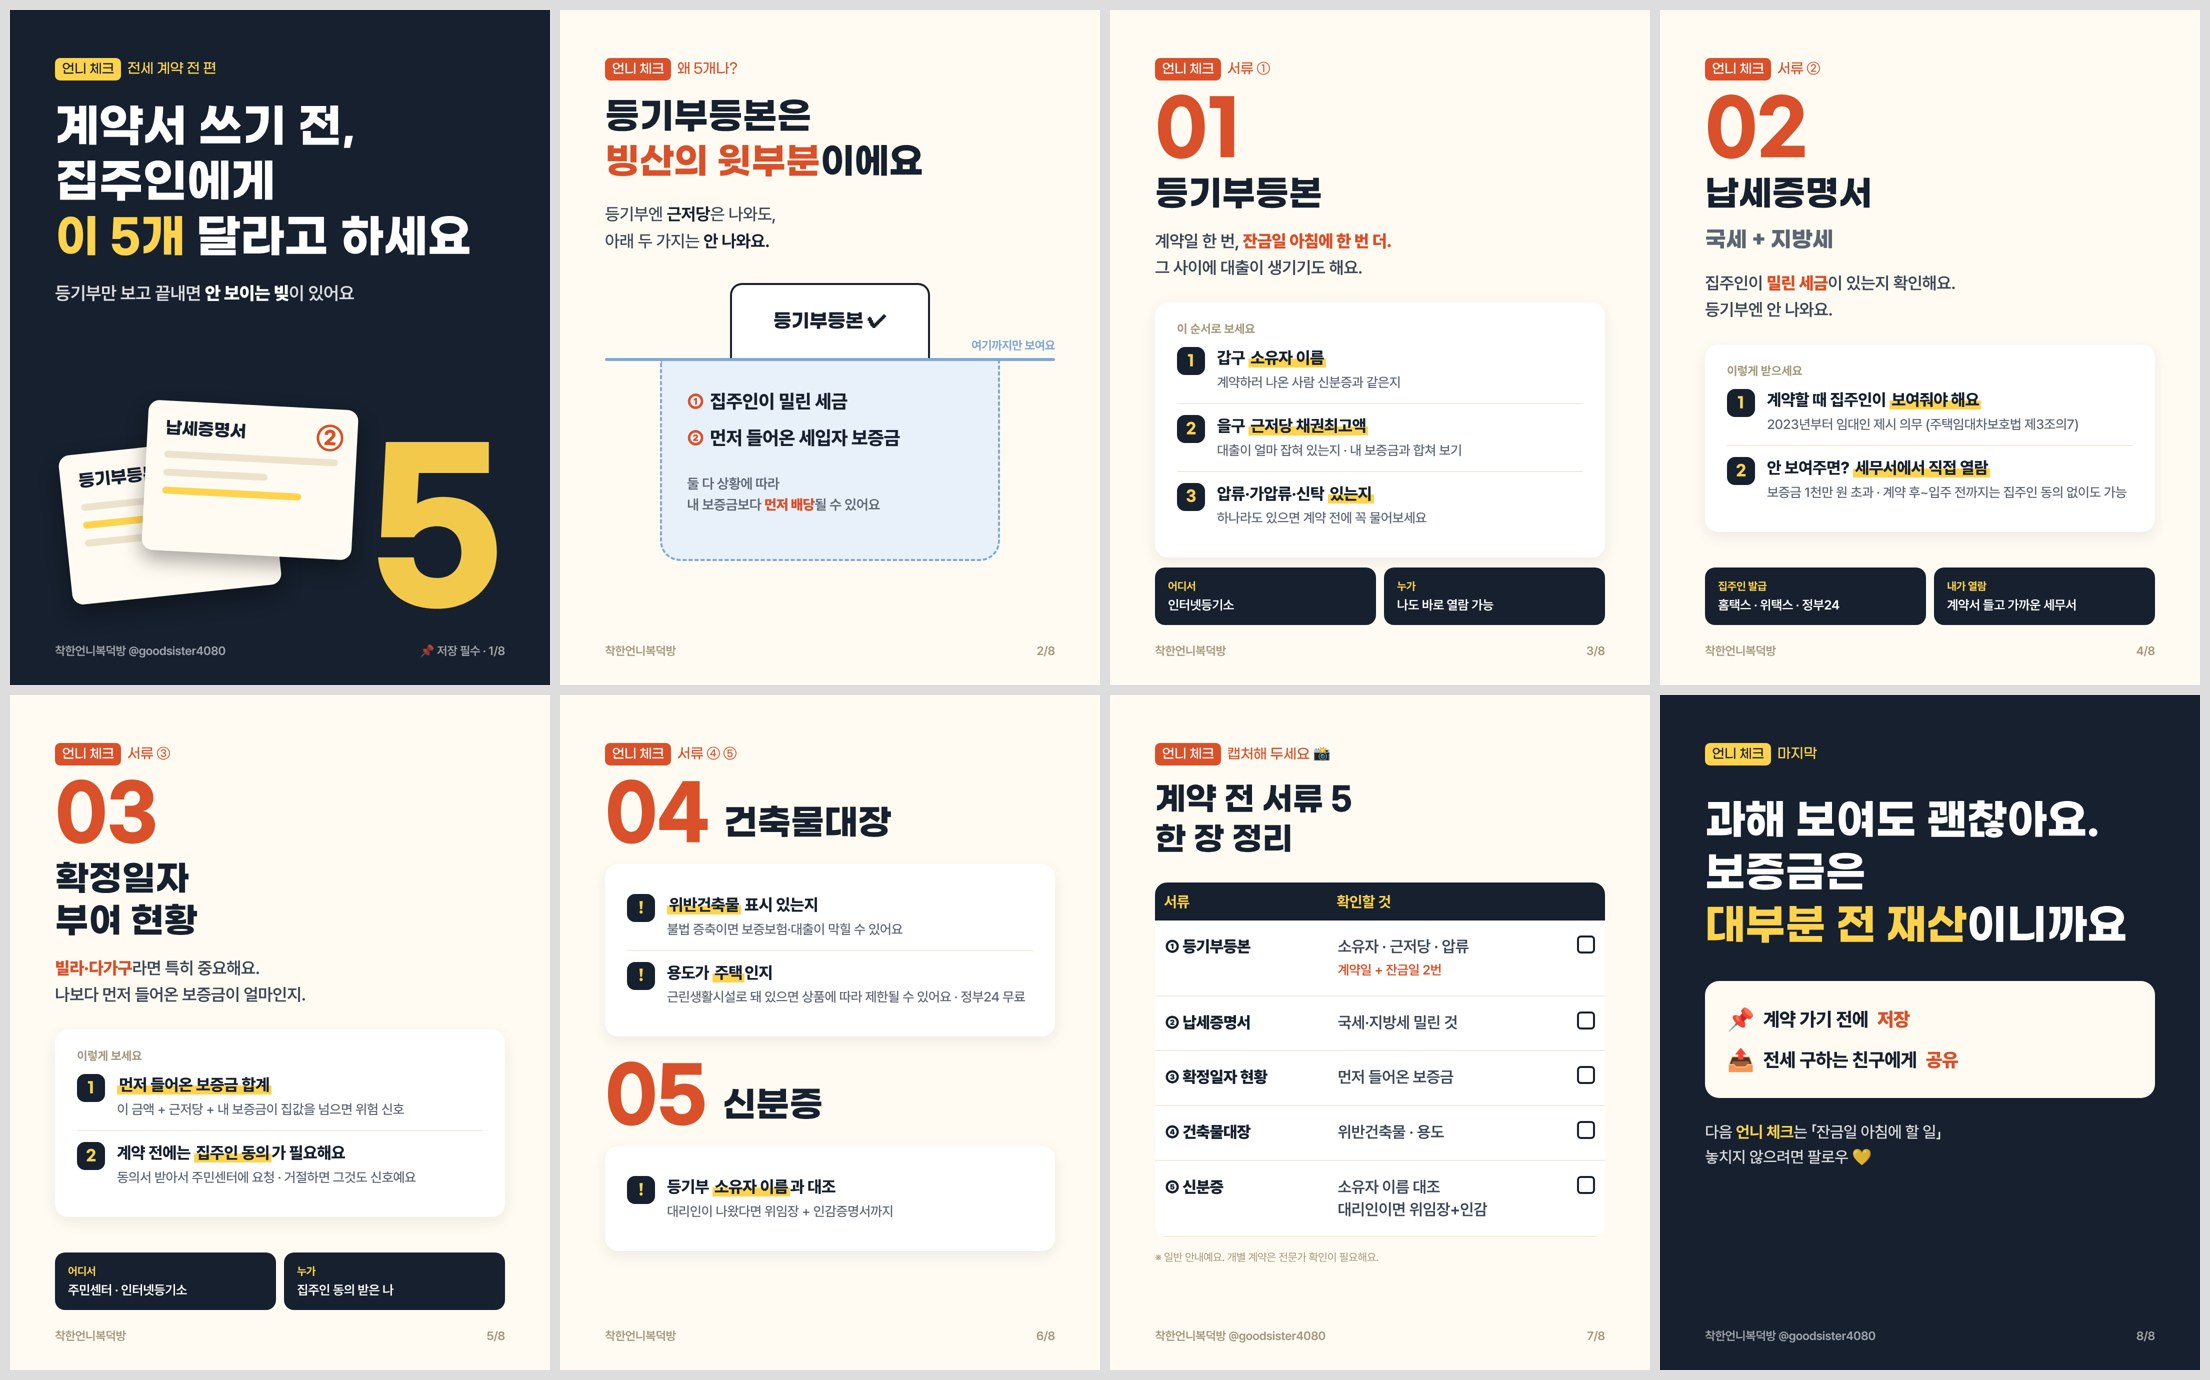
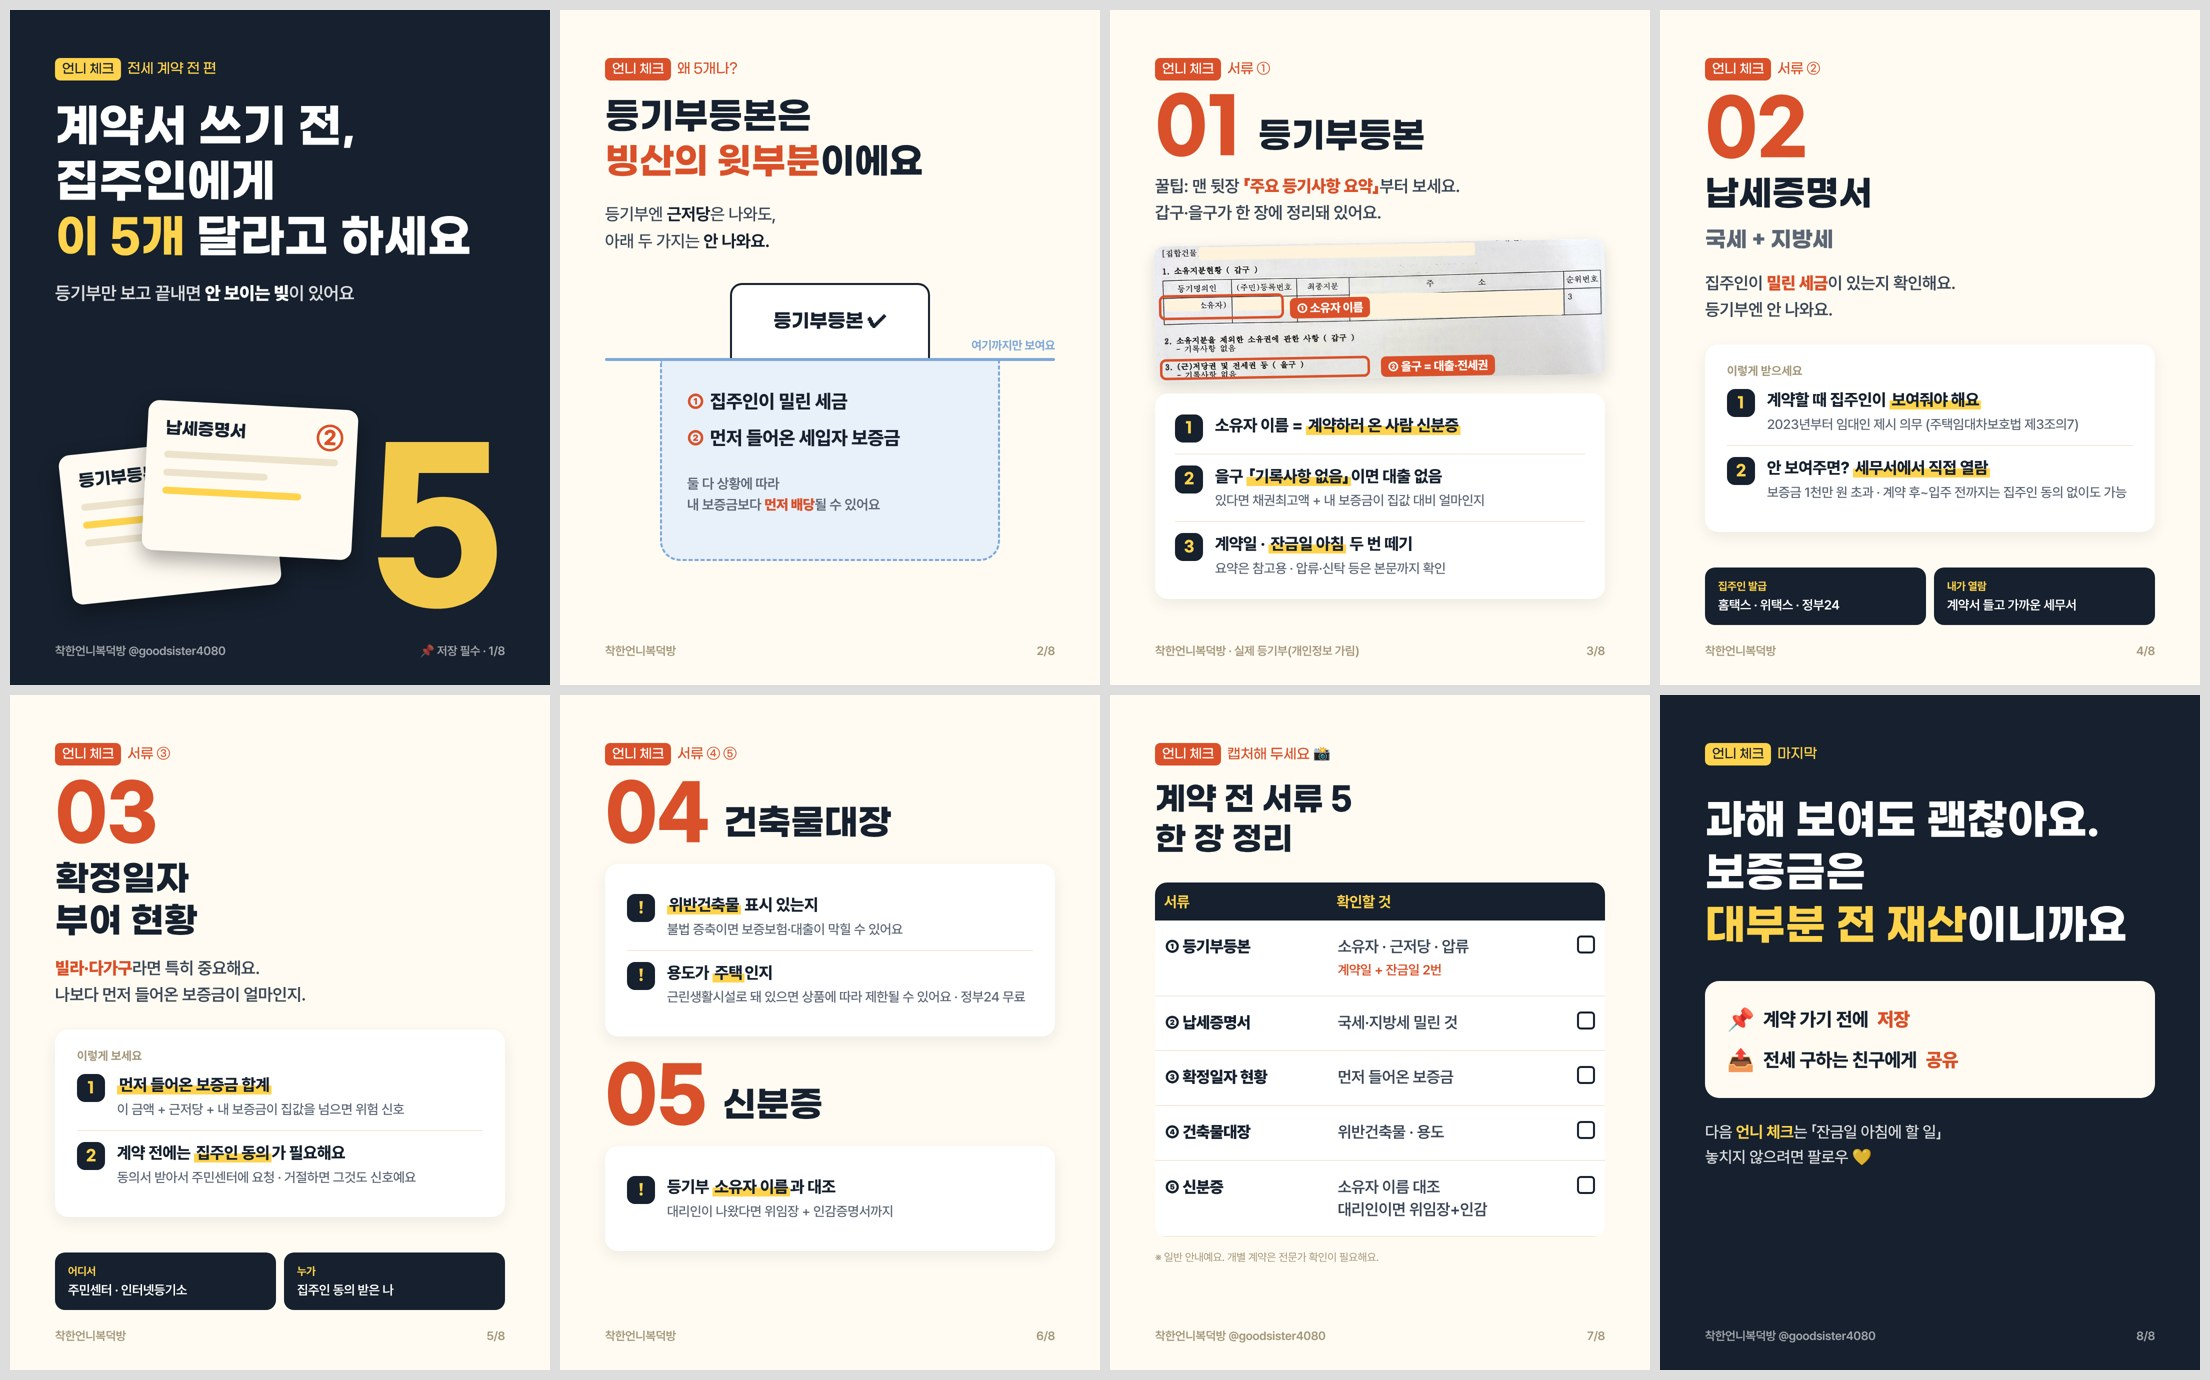
언니 체크 draft: real 등기부 summary (masked) on slide 3, caption
Claude-Session: https://claude.ai/code/session_01TVq9M4GpnT2XRseWGn9WC1

Changed region(s): [[0.4995, 0.0623, 0.7493, 0.4986]]

diff --git a/instagram/cards/2026-11-draft-unni-check/cards.html b/instagram/cards/2026-11-draft-unni-check/cards.html
@@ -57,6 +57,10 @@ mark{background:linear-gradient(transparent 55%,#FFD34D 55%);color:inherit;paddi
 .btn div{font-size:38px;font-weight:800;padding:14px 0;display:flex;gap:18px;align-items:center}
 .btn div span{font-size:44px}
 .fol{margin-top:44px;font-size:32px;line-height:1.55;color:rgba(255,255,255,.85);font-weight:500}.fol b{color:#FFD34D}
+.ph{position:relative;margin-top:34px;border-radius:20px;overflow:hidden;box-shadow:0 12px 30px rgba(22,32,46,.15);transform:rotate(-1deg);background:#fff}
+.ph img{display:block;width:900px}
+.ph .hl{position:absolute;border:5px solid #D9502A;border-radius:12px}
+.ph .tg{position:absolute;background:#D9502A;color:#fff;font-size:24px;font-weight:800;padding:6px 14px;border-radius:10px;white-space:nowrap}
 </style></head><body>
 
 <!-- 1 COVER -->
@@ -91,15 +95,16 @@ mark{background:linear-gradient(transparent 55%,#FFD34D 55%);color:inherit;paddi
 <!-- 3 등기부 -->
 <div class="s" id="s3">
  <div class="ser"><i>언니 체크</i> 서류 ①</div>
- <div class="num">01</div><div class="it">등기부등본</div>
- <div class="why">계약일 한 번, <b>잔금일 아침에 한 번 더.</b><br>그 사이에 대출이 생기기도 해요.</div>
- <div class="paper"><div class="t">이 순서로 보세요</div>
-  <div class="row"><div class="k">1</div><div class="v">갑구 <mark>소유자 이름</mark><small>계약하러 나온 사람 신분증과 같은지</small></div></div>
-  <div class="row"><div class="k">2</div><div class="v">을구 <mark>근저당 채권최고액</mark><small>대출이 얼마 잡혀 있는지 · 내 보증금과 합쳐 보기</small></div></div>
-  <div class="row"><div class="k">3</div><div class="v">압류·가압류·신탁 <mark>있는지</mark><small>하나라도 있으면 계약 전에 꼭 물어보세요</small></div></div>
+ <div style="display:flex;gap:30px;align-items:flex-end;margin-top:30px"><div class="num" style="margin:0">01</div><div class="it" style="margin:0 0 10px">등기부등본</div></div>
+ <div class="why" style="margin-top:20px">꿀팁: 맨 뒷장 <b>「주요 등기사항 요약」</b>부터 보세요.<br>갑구·을구가 한 장에 정리돼 있어요.</div>
+ <div class="ph"><img src="sum_masked.jpg"><span class="hl" style="left:8px;top:98px;width:250px;height:50px"></span><span class="tg" style="left:270px;top:108px">① 소유자 이름</span>
+ <span class="hl" style="left:8px;top:226px;width:420px;height:42px"></span><span class="tg" style="left:450px;top:228px">② 을구 = 대출·전세권</span></div>
+ <div class="paper" style="margin-top:30px;padding:20px 40px">
+  <div class="row"><div class="k">1</div><div class="v">소유자 이름 = <mark>계약하러 온 사람 신분증</mark></div></div>
+  <div class="row"><div class="k">2</div><div class="v">을구 <mark>「기록사항 없음」</mark>이면 대출 없음<small>있다면 채권최고액 + 내 보증금이 집값 대비 얼마인지</small></div></div>
+  <div class="row"><div class="k">3</div><div class="v">계약일 · <mark>잔금일 아침</mark> 두 번 떼기<small>요약은 참고용 · 압류·신탁 등은 본문까지 확인</small></div></div>
  </div>
- <div class="where"><div><b>어디서</b>인터넷등기소</div><div><b>누가</b>나도 바로 열람 가능</div></div>
- <div class="foot"><span>착한언니복덕방</span><span>3/8</span></div>
+ <div class="foot"><span>착한언니복덕방 · 실제 등기부(개인정보 가림)</span><span>3/8</span></div>
 </div>
 
 <!-- 4 납세 -->

diff --git a/instagram/cards/2026-11-draft-unni-check/README.md b/instagram/cards/2026-11-draft-unni-check/README.md
@@ -24,3 +24,41 @@
 - 주택임대차보호법 제3조의7 (임대인 정보 제시 의무: 확정일자·보증금 정보, 국세·지방세 납세증명서)
 - 국세징수법 제109조 · 시행령 (보증금 1천만 원 초과, 계약일~임대차 개시일 임대인 동의 없이 미납국세 열람)
 - 주택임대차보호법 제3조의6 (계약 전 확정일자 정보는 임대인 동의 필요)
+
+## 3장 실물
+대표님 제공 등기부 「주요 등기사항 요약」 사진 사용. 소유자 이름·주민번호·주소·건물 주소 가림 (원본은 저장소에 올리지 않음).
+
+## 캡션
+```
+등기부만 보고 전세 계약하면, 안 보이는 빚이 있어요 😱
+📌 계약하러 가기 전에 꼭 저장해 두세요.
+
+전세 계약 전, 집주인에게 받아볼 서류 5
+① 등기부등본 — 맨 뒷장 「주요 등기사항 요약」부터 (계약일·잔금일 2번)
+② 납세증명서 — 국세·지방세 밀린 것
+③ 확정일자 부여 현황 — 먼저 들어온 보증금
+④ 건축물대장 — 위반건축물·용도
+⑤ 신분증 — 대리인이면 위임장 + 인감증명서
+
+과해 보여도 괜찮아요.
+대부분 집주인분들, 좋은 분들이에요.
+그래도 보증금은 대부분 전 재산이니까요.
+
+※ 임대인 정보 제시 의무(주택임대차보호법 제3조의7),
+미납국세 열람(국세징수법 제109조) 참고.
+개별 계약은 전문가 확인이 필요해요.
+
+📤 전세 구하는 친구에게 공유해 주세요!
+
+착한언니복덕방 팔로우하면
+살이 되고 돈이 되는 부동산 정보, 계속 드릴게요 💛
+
+#전세 #전세계약 #전세사기예방 #등기부등본 #납세증명서 #확정일자 #건축물대장 #자취 #신혼집 #착한언니복덕방
+```
+
+## 고정 댓글
+```
+📌 7장 한 장 정리, 캡처해서 계약 갈 때 꺼내 보세요!
+궁금한 서류 있으면 댓글로 물어보세요 💛
+📤 전세 구하는 친구 태그도 환영이에요
+```
